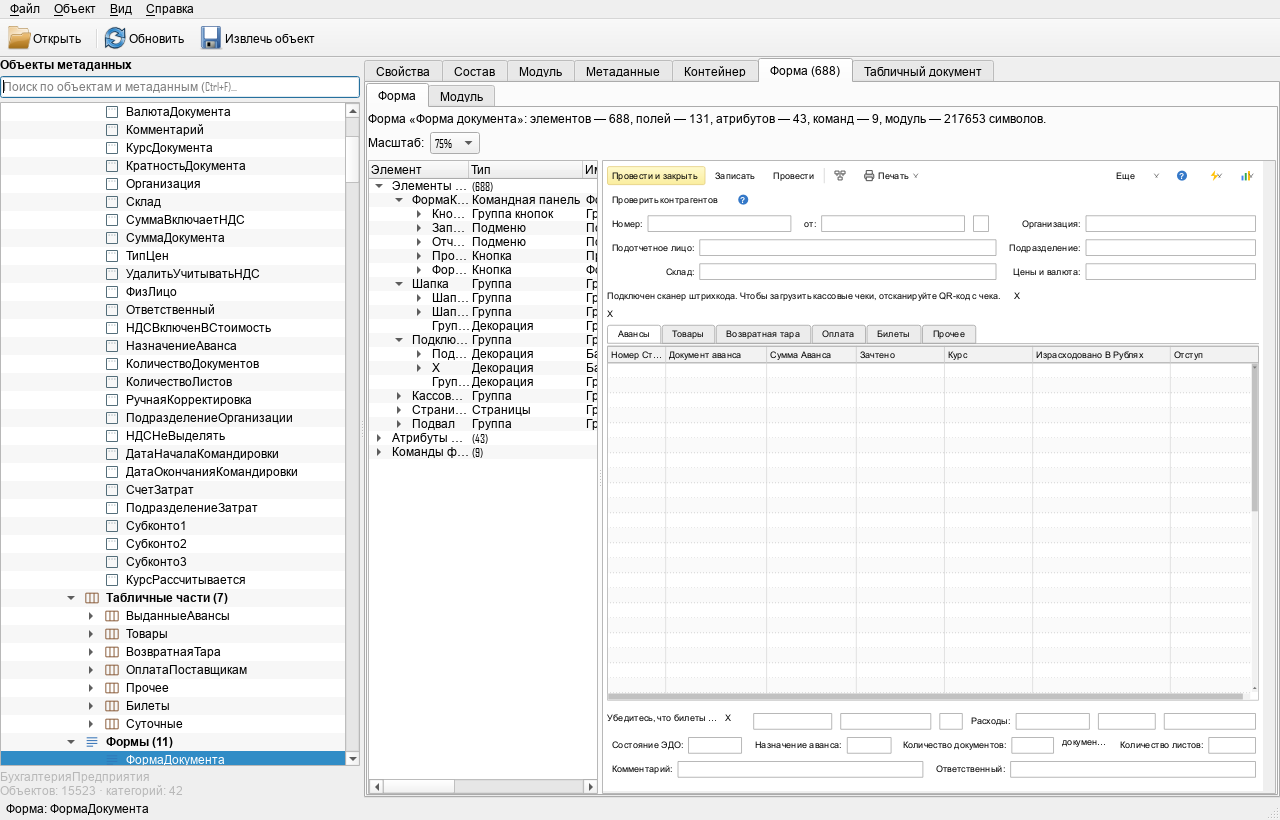
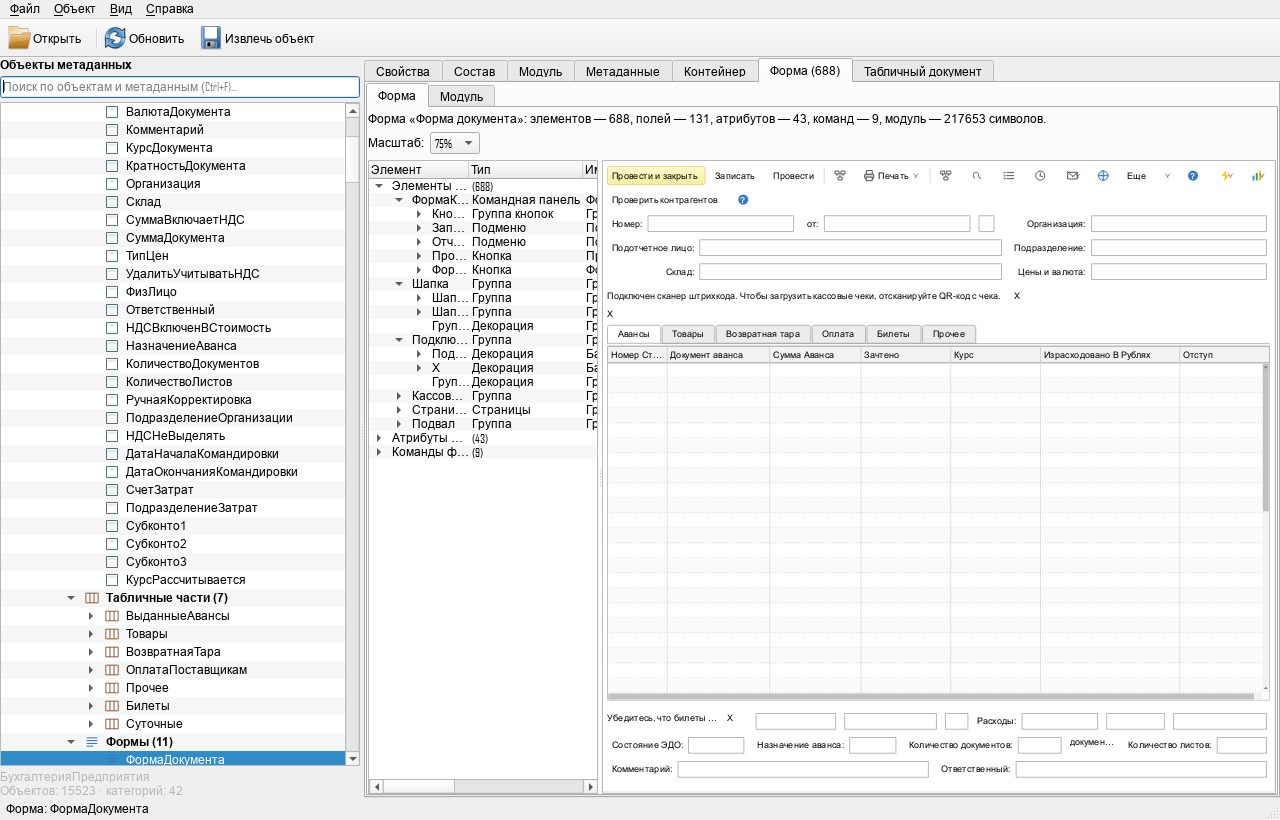
feat(forms): адаптивная ширина формы под панель

diff --git a/src/gui/FormView.cpp b/src/gui/FormView.cpp
@@ -1713,15 +1713,23 @@ private:
         }
 
         const double margin = 6.0;
-        const double contentWidth = kFormWidth - margin * 2.0;
+        double viewportWidth = 0.0;
+        double viewportHeight = 0.0;
+        if (QWidget *viewport = parentWidget()) {
+            if (QScrollArea *area = qobject_cast<QScrollArea *>(viewport->parentWidget())) {
+                viewportWidth = area->viewport()->width();
+                viewportHeight = area->viewport()->height();
+            }
+        }
+        // Ширина формы следует за шириной панели, как окно 1С: при масштабе
+        // 75% форма занимает панель целиком, при увеличении — прокручивается.
+        const double baseWidth = viewportWidth > 2.0
+            ? (viewportWidth - 1.0) / 0.75 : kFormWidth;
+        const double logicalWidth = std::clamp(baseWidth, 700.0, 1600.0);
+        const double contentWidth = logicalWidth - margin * 2.0;
 
         // Высота окна 1С: таблица списка должна занимать всё доступное место,
         // а не оставлять пустую полосу под собой.
-        double viewportHeight = 0.0;
-        if (QWidget *viewport = parentWidget()) {
-            if (QScrollArea *area = qobject_cast<QScrollArea *>(viewport->parentWidget()))
-                viewportHeight = area->viewport()->height();
-        }
         const double viewportLogical = viewportHeight > 0.0
             ? viewportHeight / m_scale : 0.0;
         const double targetContentHeight = std::max(0.0,
@@ -1763,7 +1771,7 @@ private:
             logicalHeight = std::max(logicalHeight,
                 margin * 2.0 + targetContentHeight);
         }
-        setFixedSize(int(kFormWidth * m_scale), int(logicalHeight * m_scale));
+        setFixedSize(int(logicalWidth * m_scale), int(logicalHeight * m_scale));
         update();
     }
 

diff --git a/docs/research/forms-format.md b/docs/research/forms-format.md
@@ -215,10 +215,10 @@ HorizontalStretch=1; `ГруппаБаннерОжидание` — Width 24 (24
   (другая структура) отклоняются.
 - Раскладка схематичная: 1С использует собственный autolayout, поэтому
   позиции элементов приближены, а не совпадают пиксель в пиксель.
-- Ширина предпросмотра фиксирована (880 логических px): при 75% форма
-  целиком помещается в панели, при 100% и более появляется горизонтальная
-  прокрутка. Командная панель при этом сворачивает лишние команды в «Еще»,
-  как 1С, но не подстраивает ширину формы под окно.
+- Ширина формы подстраивается под панель просмотра: при масштабе 75% она
+  занимает панель целиком (как окно 1С), при 100% и более появляется
+  горизонтальная прокрутка. Командная панель сворачивает лишние команды
+  в «Еще», как 1С.
 - Набор колонок таблицы — все поля формы. В 1С видимый набор колонок
   хранится в пользовательских настройках, а не в форме, поэтому по умолчанию
   колонок может быть меньше.
@@ -231,8 +231,8 @@ HorizontalStretch=1; `ГруппаБаннерОжидание` — Width 24 (24
 
 1. Точный autolayout: горизонтальные/вертикальные группы, растяжения,
    страницы, таблицы — с учётом свойств элементов.
-2. Адаптивная ширина формы под панель просмотра и сохранение пропорций
-   при масштабировании.
+2. Набор видимых колонок таблицы из пользовательских настроек 1С и
+   точная подстройка колонок под ширину окна.
 3. Свойства элемента при выборе в дереве (данные, обработчики, оформление).
 4. Список атрибутов/команд с типами и признаком «основной реквизит».
 5. Обычные (неуправляемые) формы.

diff --git a/CHANGELOG.md b/CHANGELOG.md
@@ -57,6 +57,9 @@
   состояния.
 - Кнопки командной панели центрируются по высоте, а у вкладок страниц
   появилась линия-подложка, как в 1С.
+- Ширина формы следует за шириной панели просмотра: при масштабе 75% форма
+  занимает панель целиком, как окно 1С; при увеличении масштаба появляется
+  горизонтальная прокрутка.
 - Дерево элементов формы стало уже, а сама форма шире: при масштабе 75%
   она целиком помещается в панели просмотра, как окно 1С.
 
